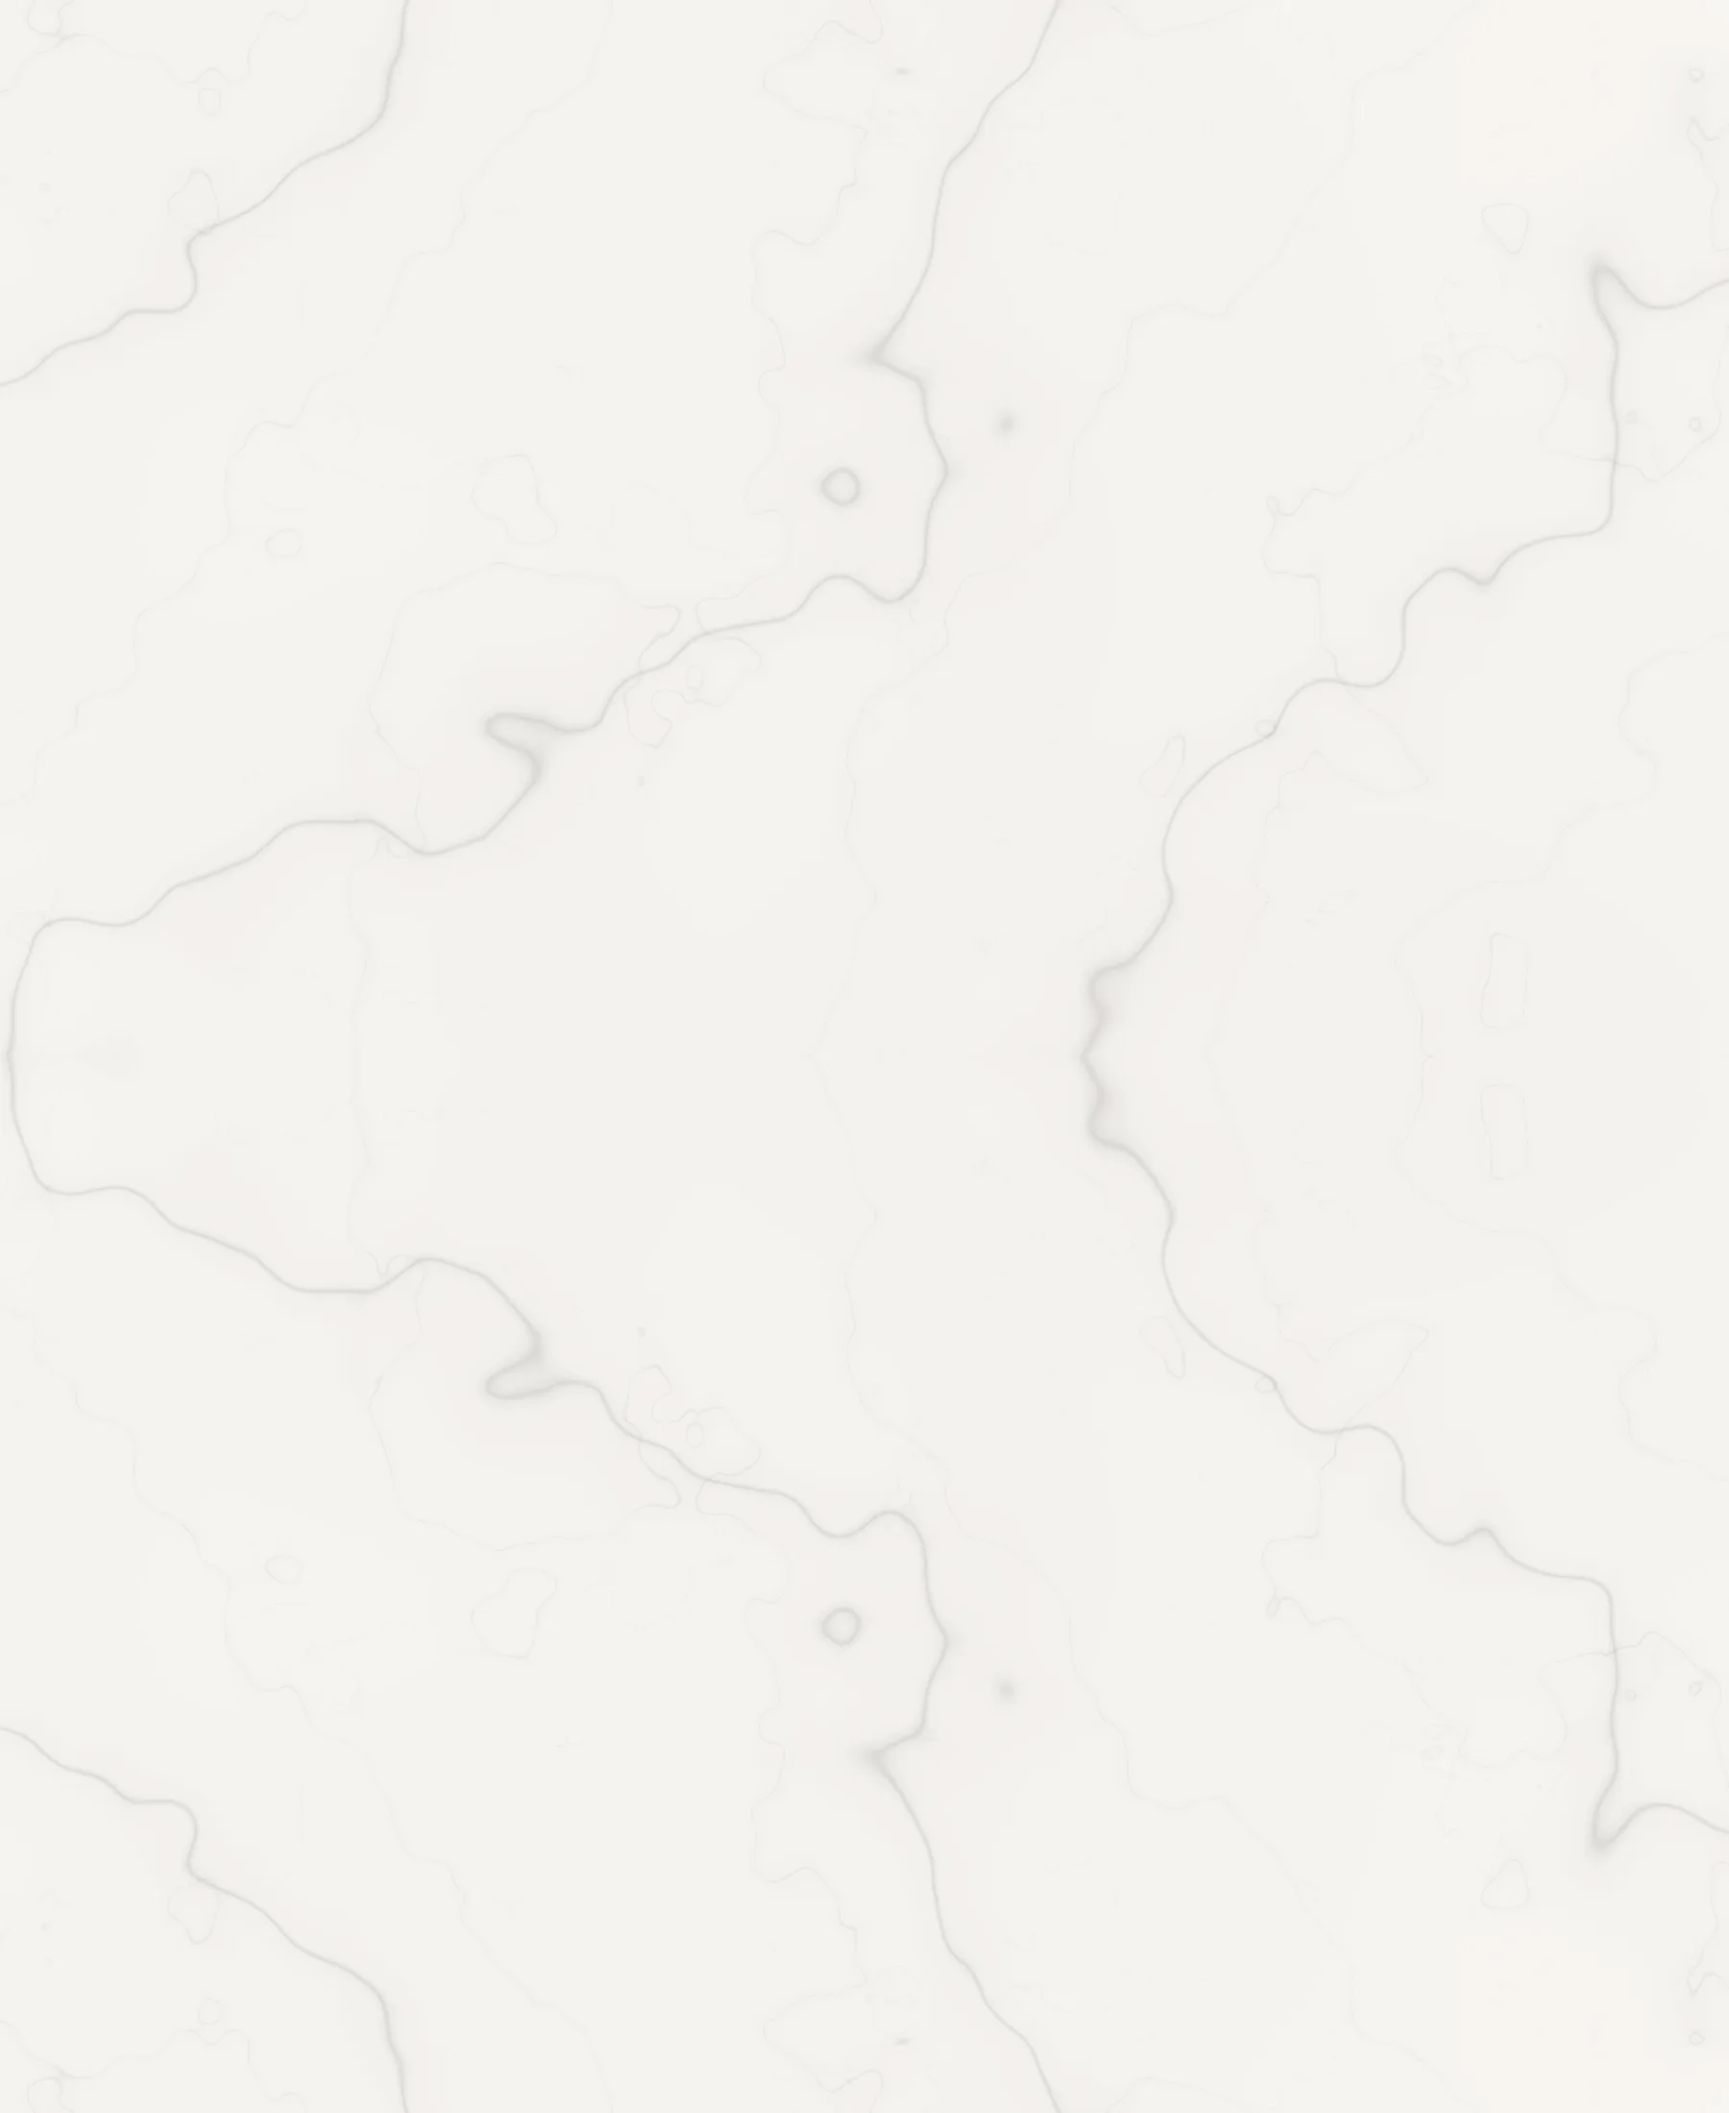
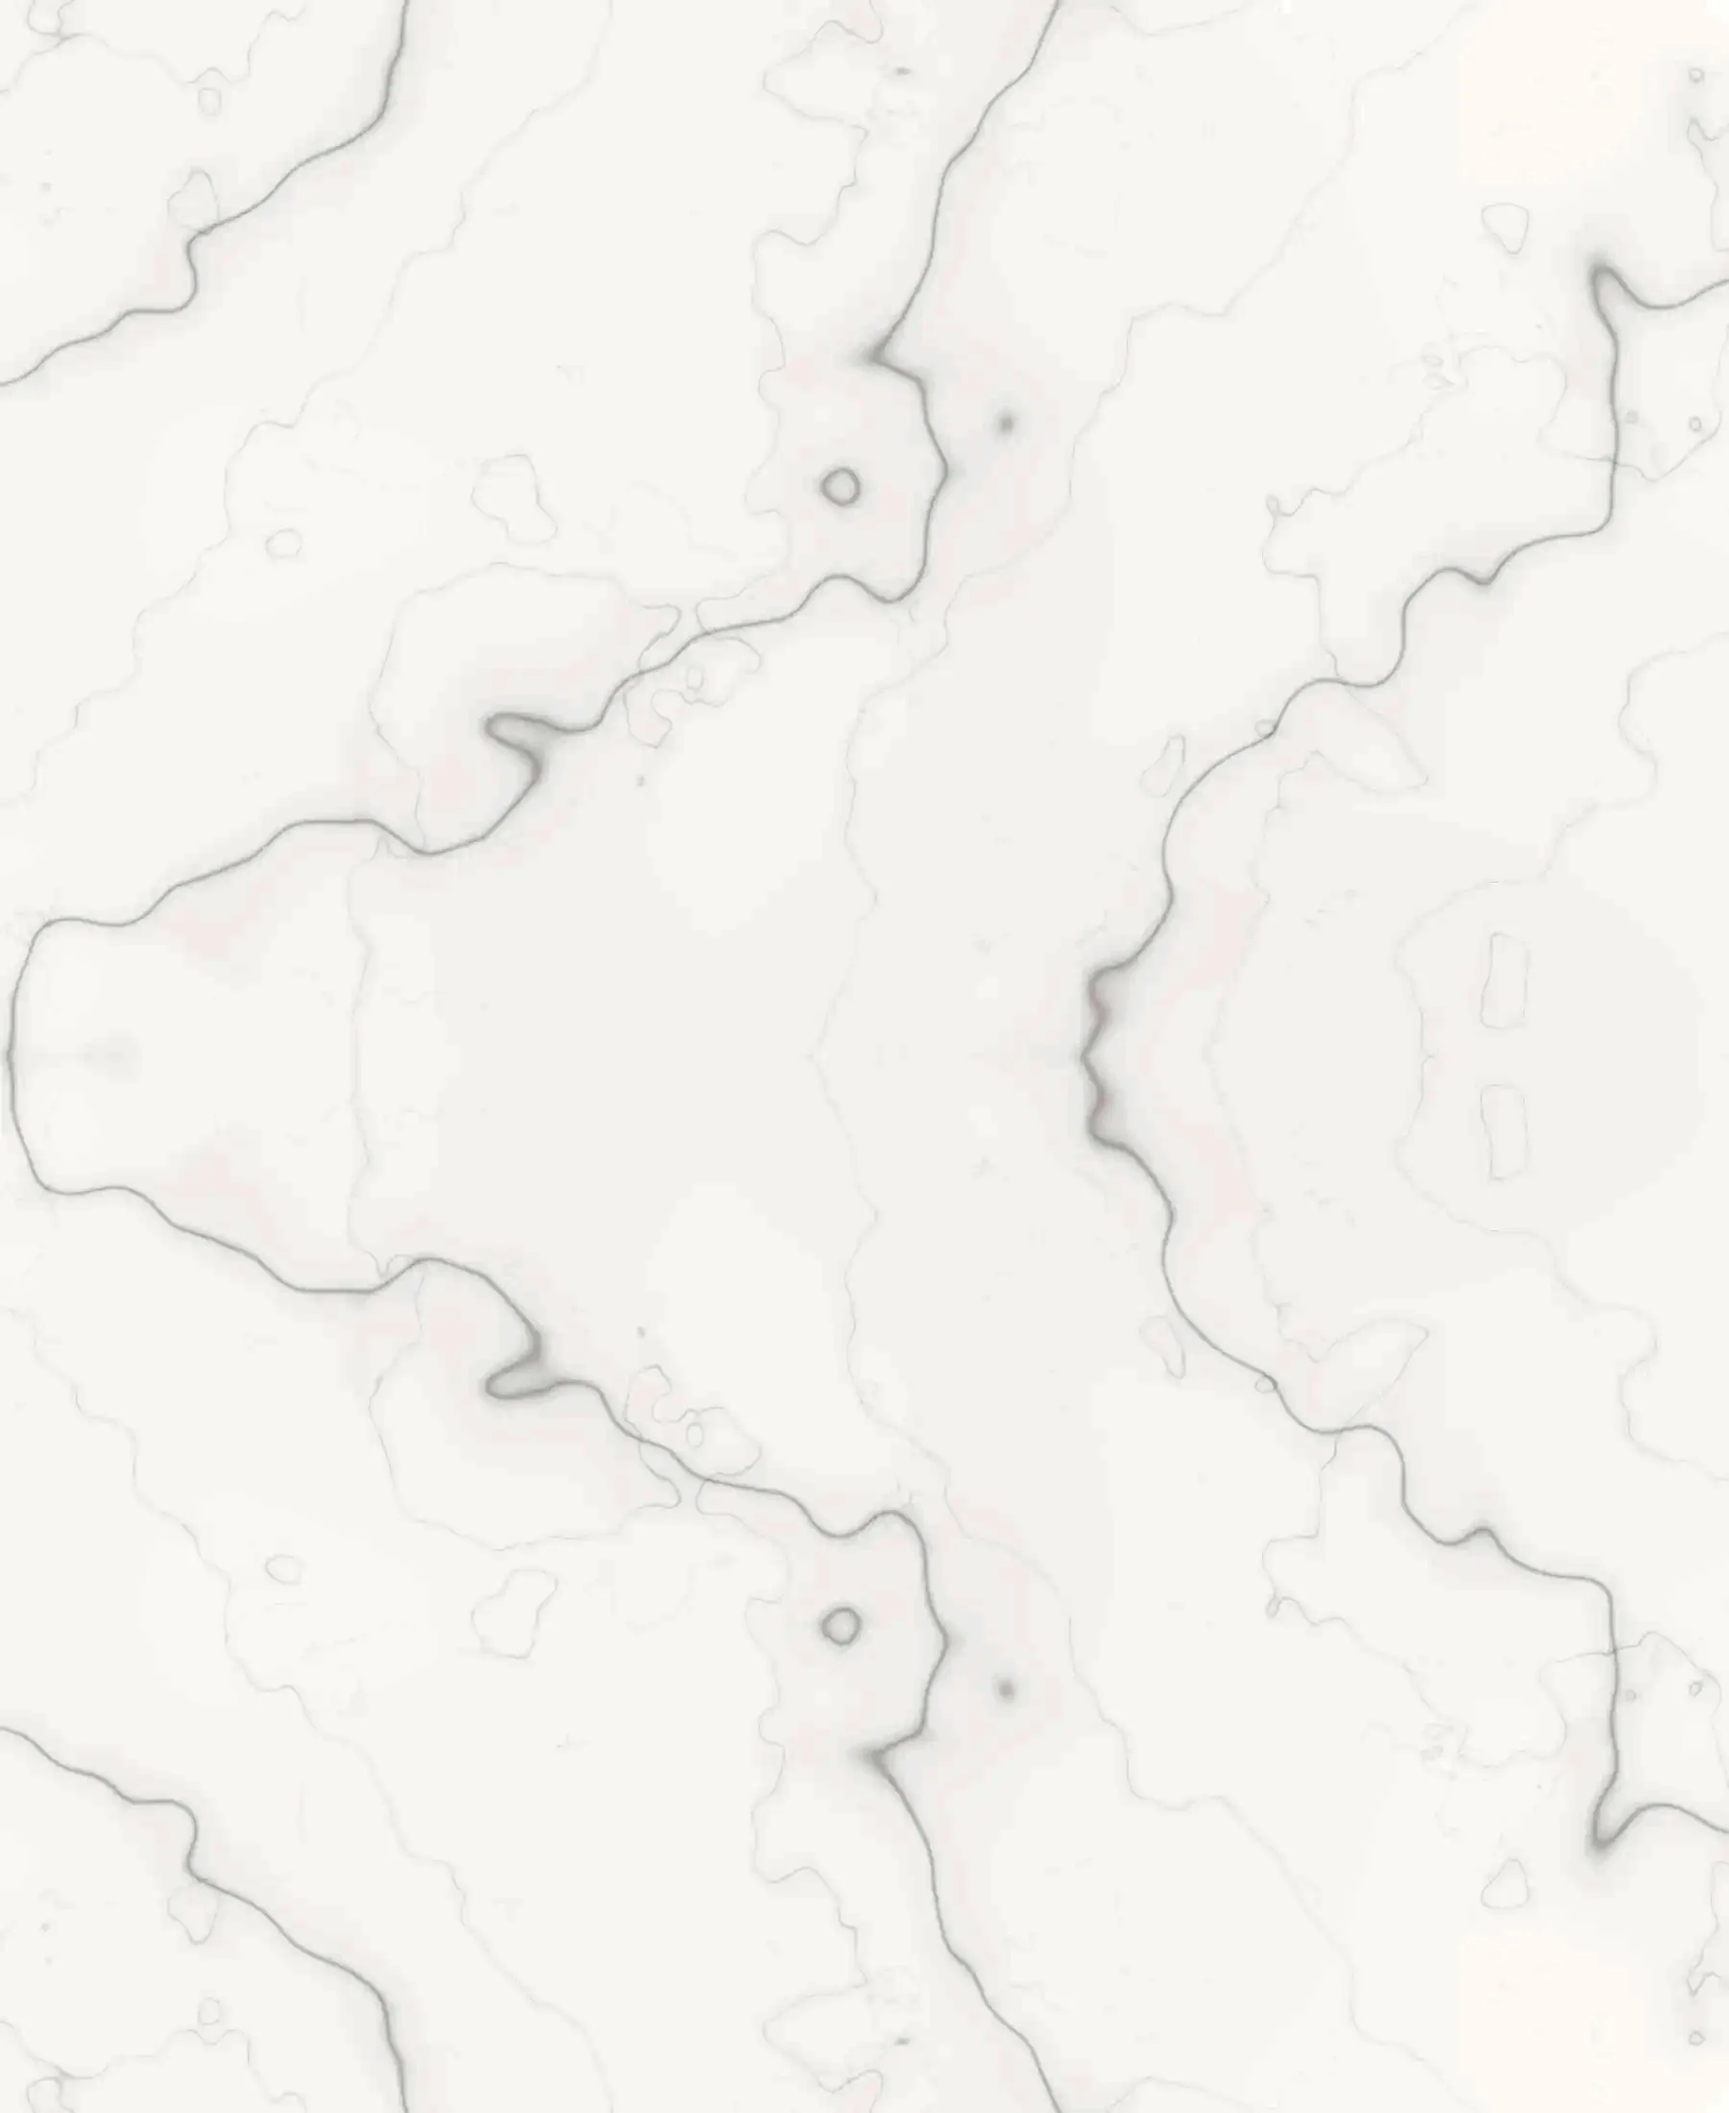
Make the white marble texture visible, especially on phones

diff --git a/src/index.css b/src/index.css
@@ -84,6 +84,9 @@ p:last-child { margin-bottom: 0; }
 .section:not(.section--ink):not(.section--dark) {
   background: var(--stone) url('/marble-light.webp') center top / max(100%, 1800px) auto repeat-y;
 }
+@media (max-width: 700px) {
+  .section:not(.section--ink):not(.section--dark) { background-size: 1100px auto; }
+}
 .section.section--stone2, .section.section--paper2 {
   background-color: var(--stone-2);
   background-blend-mode: multiply;
